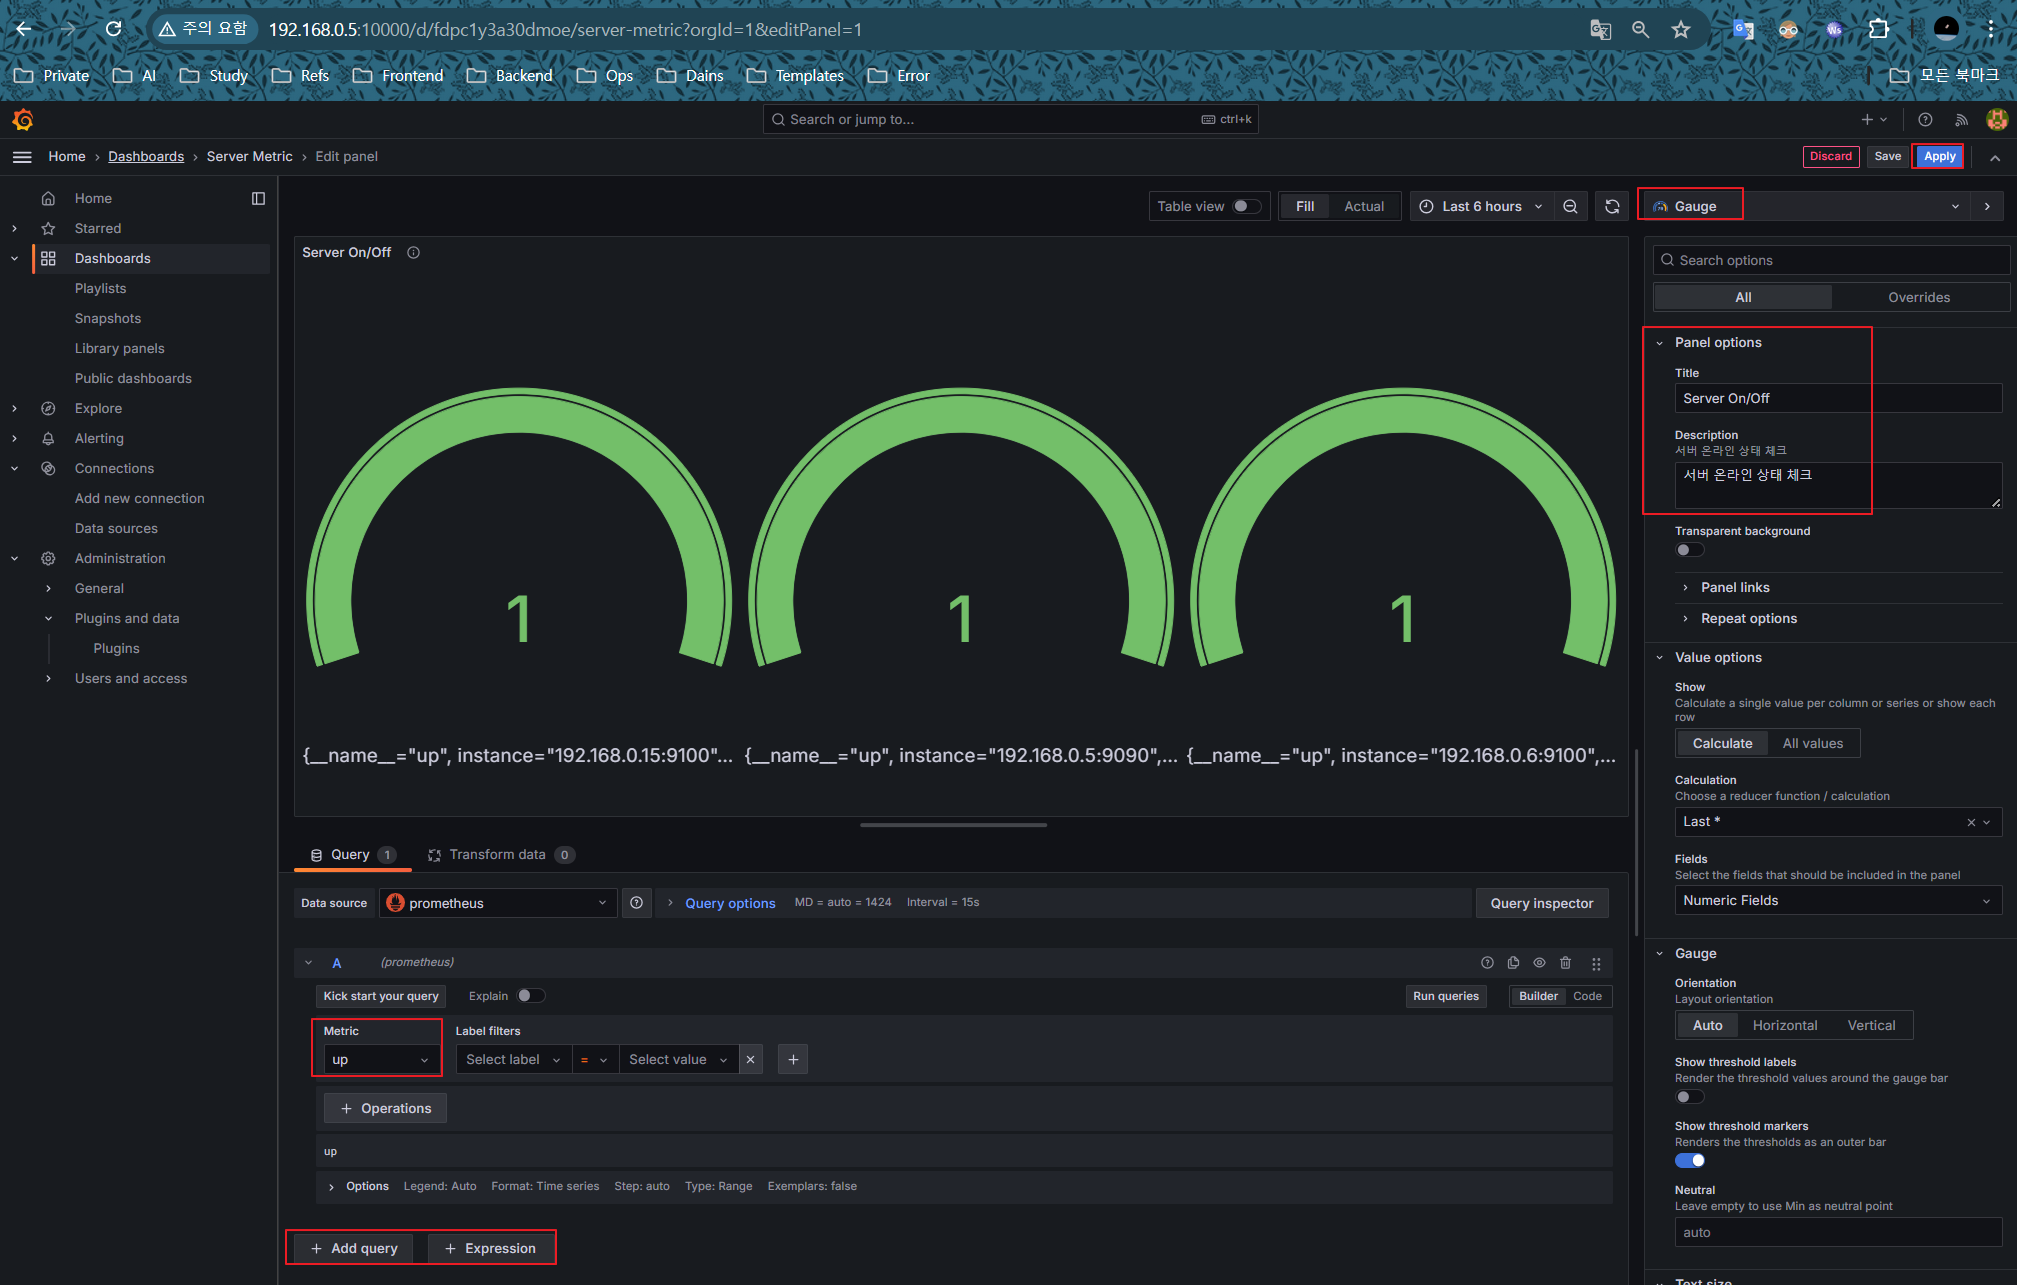
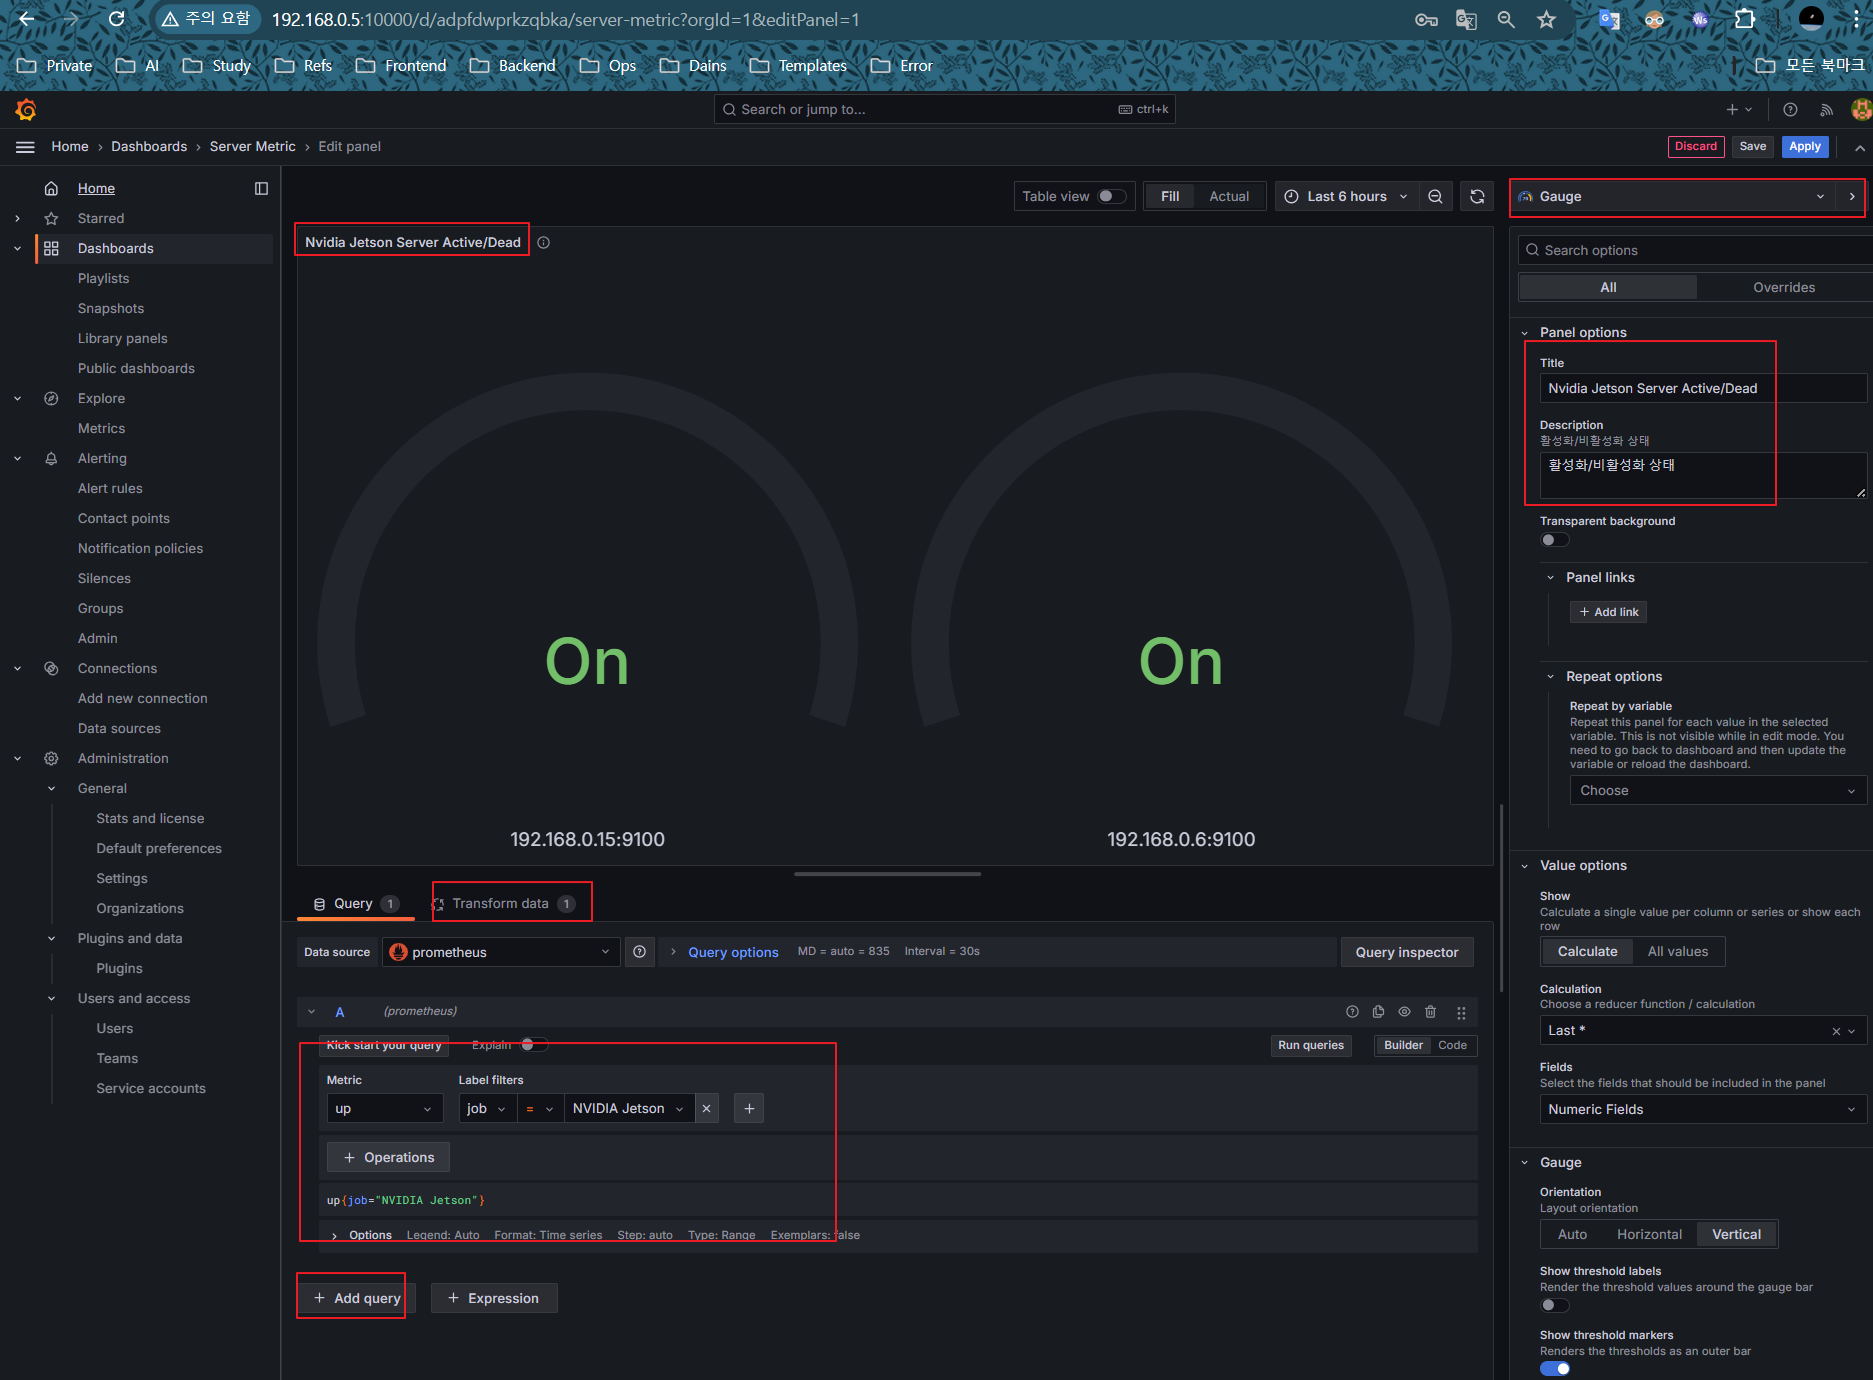
Prometheus & Grafana를 이용한 Metric Monitoring - 이미지, 설명 수정

diff --git a/Backend/Metrics/Grafana/Grafana.md b/Backend/Metrics/Grafana/Grafana.md
@@ -9,9 +9,13 @@
 툴 선정하기 전 가볍게 써보고 정하자는 생각으로 일단 간단하게 만들어 보았습니다.
 
 ---
-## Server Settings
+## Metric 수집 대상 서버 설정
+
+**Linux Server**
 
 Main Server를 설정하기 전, 메트릭 수집을 원하는 서버에 `node-exporter` 컨테이너를 실행시켜 주면 Sub Server는 설정 완료입니다.
+
+Linux에서 Exporter의 기본 포트는 9100 입니다.
 
 ```bash
 sudo docker run -d --name=metric --restart=on-failure --net=host prom/node-exporter
@@ -19,38 +23,47 @@ sudo docker run -d --name=metric --restart=on-failure --net=host prom/node-expor
 
 <br>
 
-우선 Prometheus 설정 파일인 `prometheus.yml`을 작성하기 위해 `~/prometheus` 경로에 디렉터리를 생성하고 파일을 만들어줍니다.
+**Windows Server**
 
-`otherservers`에 붙은 포트는 `node-exporter`의 기본포트인 9100을 사용할거고, 각 하위 서버에는 `node-exporter`를 설치해줄겁니다.
+[Windows Node Exporter](https://github.com/prometheus-community/windows_exporter/releases) 위 사이트에서 Windows 전용 Exporter를 받고 임의의 폴더에 압축을 풀어줍니다.
 
-```bash
-mkdir -p ~/prometheus
-sudo vi prometheus.yml
+압축 해제한 폴더 내부에 있는 prometheus.yml 파일에 Windows Exporter를 Scrab Target으로 추가합니다.
+
+Windows Exporter 기본 포트는 9182 입니다.
+
+---
+## Root Server 설정
+
+우선 Prometheus 설정 파일인 `prometheus.yml`을 작성하기 위해 `~/metrics` 경로에 `prometheus` 디렉터리를 생성하고 파일을 만들어줍니다.
+
+<br>
+
+디렉터리 구조는 아래와 같습니다.
+
+granafa와 prometheus 디렉토리 내부에는 아무 파일도 없지만 컨테이너가 실행되고,
+
+설정 파일들을 작성 후, grafana, prometheus Container를 재시작 하면 해당 디렉토리들의 설정파일이 컨테이너 내부에 적용됩니다.
+
+- docker-compose 파일은 metrics 디렉터리 내부에 있으며, compose up 시 이곳에서 진행합니다.
+- grafana 디렉토리 : Grafana 설정 파일인 `defaults.ini`를 Container의 볼륨과 마운트합니다.
+- prometheus 디렉토리 : Prometheus 설정 파일인 `prometheus.yml`을 Container의 볼륨과 마운트합니다.
+
 ```
-
-```yaml
-global:
-  scrape_interval: 15s
-
-scrape_configs:
-  - job_name: 'mainserver'
-    static_configs:
-      - targets: ['192.168.0.5:9100']
-
-  - job_name: 'otherservers'
-    static_configs:
-      - targets: ['192.168.0.127:9100', '192.168.0.95:9100'] # 각 서버의 IP 주소로 변경
+/home/skw/metrics
+├── docker-compose.yml
+├── grafana
+│   └── 
+└── prometheus
+    └── 
 ```
 
 <br>
 
-이제 Prometheus와 Grafana 컨테이너를 띄우기 위한 Docker Compose를 작성합니다.
+**docker-compose.yml**
 
-docker-compose.yml 파일도 prometheus 디렉터리 내부에서 생성할 것이기 때문에 상대경로로 볼륨 마운트를 해주었습니다.
+Prometheus와 Grafana 컨테이너를 띄우기 위한 Docker Compose를 작성합니다.
 
 Grafana Web 기본 비밀번호는 1234로 지정하고 현재 서버에서 3000번 포트는 사용중이어서 10000으로 포트포워딩 하였습니다.
-
-
 
 ```yaml
 version: '3.7'
@@ -60,42 +73,75 @@ services:
     image: prom/prometheus:latest
     container_name: Root-Metric
     volumes:
-      - ./prometheus.yml:/etc/prometheus/prometheus.yml
+      - /home/skw/metrics/prometheus:/etc/prometheus
     command:
       - --config.file=/etc/prometheus/prometheus.yml
     ports:
       - "9090:9090"
+    restart: unless-stopped
 
   grafana:
     image: grafana/grafana:latest
     container_name: Grafana
     volumes:
-     - /home/skw/grafana:/usr/share/grafana/defaults.ini
+     - /home/skw/metrics/grafana:/usr/share/grafana/conf
     ports:
       - "10000:3000"
     environment:
       - GF_SECURITY_ADMIN_PASSWORD=1234
+    restart: unless-stopped
 ```
 
 <br>
 
-이제 컨테이너들을 올려줍니다.
+이제 컨테이너들을 올려주고 잘 실행중인지 확인합니다.
 
 ```bash
+# docker-compose.yml 파일 실행
 docker-compose up -d
+
+# 컨테이너 확인
+docker ps
 ```
 
 ![](Backend/Metrics/Grafana/1.png)
-
-<br>
-
-`docker ps`로 컨테이너가 잘 떴는지 확인
 
 ![](Backend/Metrics/Grafana/2.png)
 
 <br>
 
-나중에 Grafana Dashboard Emebed를 하기 위해 grafana 디렉토리(볼륨 마운트된)의 defaults.ini를 수정후 컨테이너를 재실행 해줍니다.
+**prometheus.yml 파일 작성**
+
+- 컨테이너가 실행됬으니 이제 prometheus 디렉토리에 `prometheus.yml` 파일을 작성해줍니다.
+- Root 서버, Jetson 서버, 윈도우 서버 이렇게 3개의 스크랩으로 나누었으며, 임시로 4개 서버만 등록 하였습니다.
+- 작성 완료 후, Prometheus 컨테이너를 재시작 하면 아래 설정이 컨테이너 내부로 들어가 적용됩니다.
+
+```yaml
+global:
+  scrape_interval: 15s
+
+scrape_configs:
+  - job_name: 'Root Server'
+    static_configs:
+      - targets: ['192.168.0.5:9090'] # Root Server
+
+  - job_name: 'NVIDIA Jetson'
+    static_configs:
+      - targets: ['192.168.0.6:9100', '192.168.0.15:9100'] # 하위 Linux 서버들
+
+  - job_name: 'Windows Agent'
+    static_configs:
+      - targets: ['192.168.0.214:9182'] # 하위 왼도우 서버들
+```
+
+<br>
+
+**Grafana 설정 파일 수정 - defaults.ini**
+
+- 우선 초기 파일이 없으므로 `docker cp Granafa:/usr/share/grafana/defaults.ini /home/skw/metrics/grafana` 명령을 통해 설정 파일을 복사합니다.
+- 그리고, 해당 설정파일에서 Grafana Panel Embedding을 위한 defaults.ini 설정을 수정합ㅂ니다.
+- 나중에 Grafana Dashboard의 각 Panel을 다른 Web UI로 Embed를 하기 위해,
+- grafana 디렉토리(볼륨 마운트된)의 defaults.ini를 수정후 Grafana 컨테이너만 재실행 해주면 설정이 적용됩니다.
 
 ```
 [security]
@@ -108,7 +154,7 @@ enabled = true
 ---
 ## Prometheus
 
-Main Server에 띄운 Prometheus의 Port인 `http://{서버IP}:9090`으로 진입해 Prometheus 서버에 접속합니다.
+Root Server에 띄운 Prometheus의 Port인 `http://{서버IP}:9090`으로 진입해 Prometheus 서버에 접속합니다.
 
 상단의 Status - Targets를 클릭해보면 하위 서버들이 Online 상태인 걸 볼 수 있습니다.
 
@@ -171,7 +217,8 @@ DataSource는 자동으로 아까 지정한 Prometheus가 지정되어 있을거
 
 - **Add Query** : Prometheus에 등록한 쿼리 그대로 입력하면 됩니다.
 - **Panel** : 패널의 제목과 기타 설정을 할 수 있으며, 우측 박스 부분입니다.
-- **Time Series** : 그래프 유형을 선택합니다.
+- **Gauge 부분** : 그래프 유형을 선택합니다.
+- **Transform Data** : 데이터를 다양하게 변환 하는 항목들을 추가
 - **저장** : 우측 상단 Apply를 클릭해 Panel을 임시 대시보드에 저장합니다.
 
 아래 사진은 예시로 `up`이라는 쿼리를 등록해 서버3대의 상태를 Gauge Graph를 이용해 모니터링 합니다.
